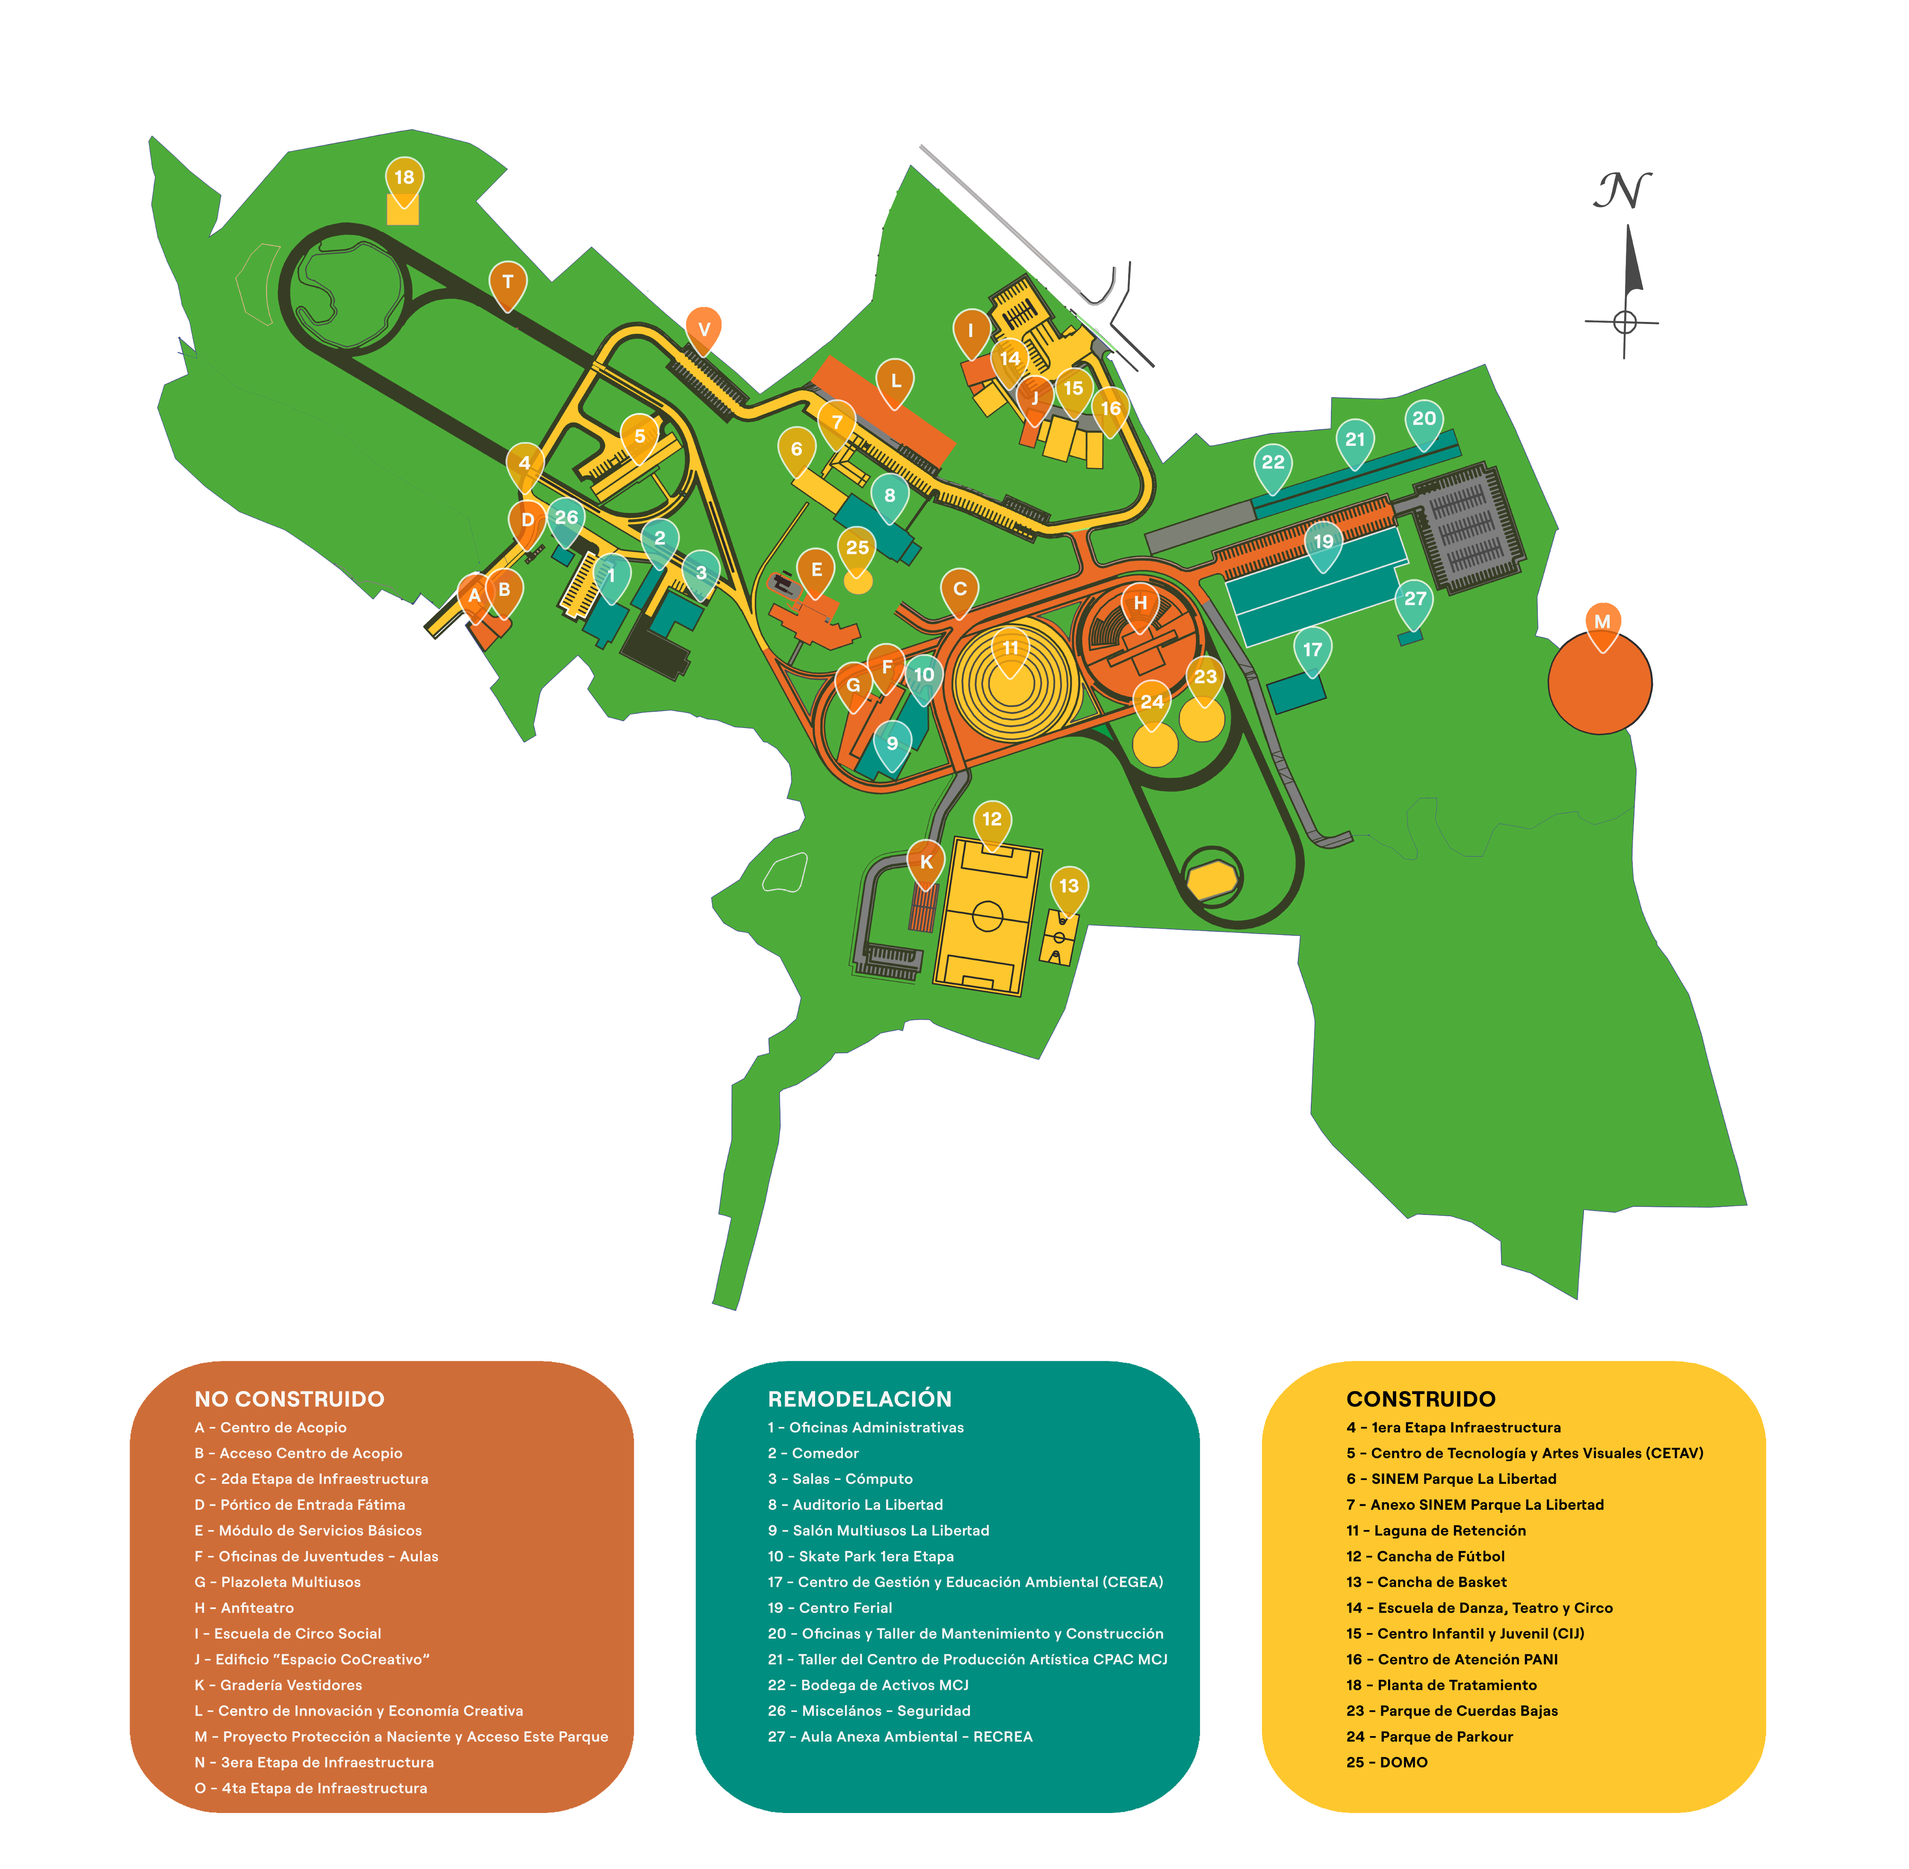
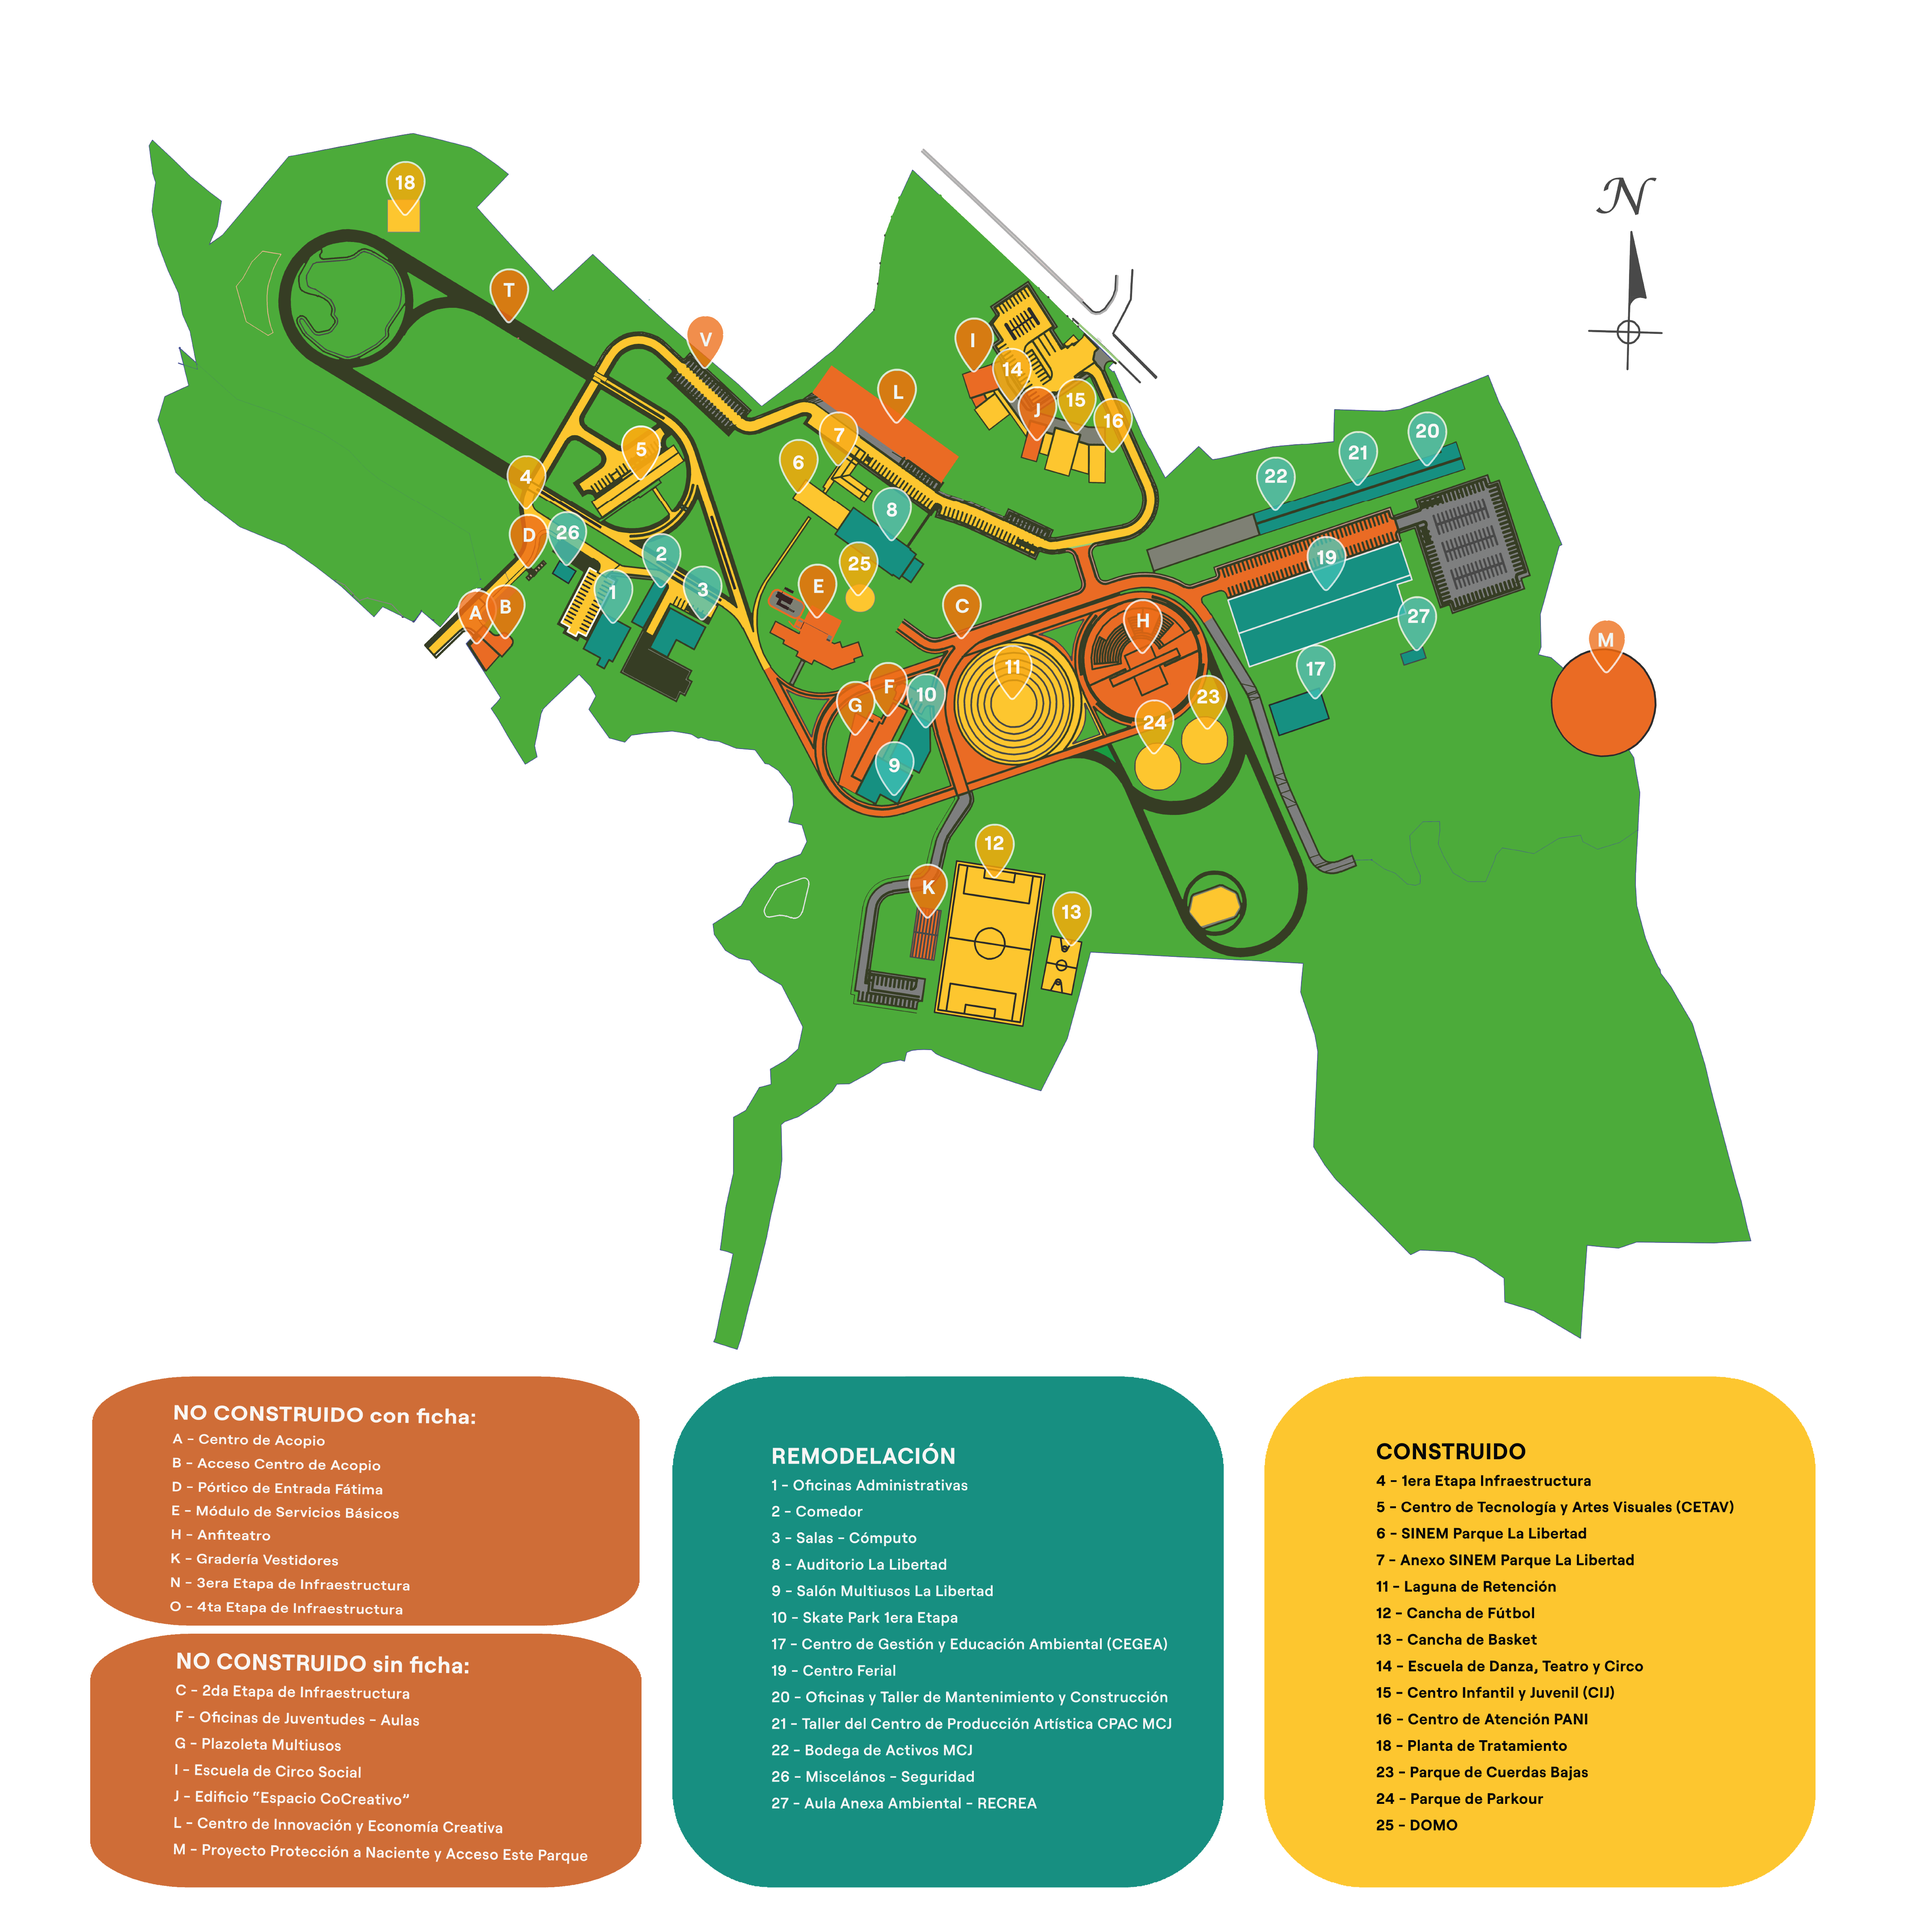
update

diff --git a/src/geo/notbuilt.js b/src/geo/notbuilt.js
@@ -13,15 +13,15 @@ const NOT_BUILT_JSON_ARRAY = [
     estimatedCost: null,
     lastDate: "mar-23",
     cords: {
-      x: 299.4 ,
-      y: 384
+      x: 301 ,
+      y: 381
   },
     renders: "Si",
   },
   {
     id: 1,
     area: 12148,
-    chartId: "B",
+    chartId: "C",
     name: "Infraestructura Etapa 2°",
     description:
       "Conjunto de medios técnicos, servicios e instalaciones que componen la vía pública del Parque, necesarios para tránsito de personas y vehículos en forma segura y confortable de un punto a otro. Incluye: red vial, ciclo vía, sistemas de alcantarillado pluvial, sistema sanitario, sistemas de telecomunicaciones, red eléctrica. Estas obras serán complemento de la infraestructura existente de la 1° Etapa. ",
@@ -33,8 +33,8 @@ const NOT_BUILT_JSON_ARRAY = [
     estimatedCost: 2717391,
     lastDate: "mar-23",
     cords: {
-      x: 317.3 ,
-      y: 382
+      x: 603 ,
+      y: 378
   },
     renders: null,
   },
@@ -52,8 +52,8 @@ const NOT_BUILT_JSON_ARRAY = [
     costM: 224,
     estimatedCost: 2717391,
     cords: {
-      x: 320,
-      y: 189
+      x: 321,
+      y: 181
   },
     renders: null,
   },
@@ -72,8 +72,8 @@ const NOT_BUILT_JSON_ARRAY = [
     estimatedCost: 2150000,
     lastDate: "mar-23",
     cords: {
-      x: 717,
-      y: 392
+      x: 716,
+      y: 387
   },
     renders: null,
   },
@@ -93,7 +93,7 @@ const NOT_BUILT_JSON_ARRAY = [
     lastDate: "mar-23",
     cords: {
       x: 513,
-      y: 370
+      y: 365
   },
     renders: null,
   },
@@ -112,7 +112,7 @@ const NOT_BUILT_JSON_ARRAY = [
     lastDate: "mar-23",
     cords: {
       x: 443,
-      y: 217
+      y: 210
   },
     renders: "No",
   },
@@ -130,8 +130,8 @@ const NOT_BUILT_JSON_ARRAY = [
     estimatedCost: null,
     lastDate: "mar-23",
     cords: {
-      x: 331,
-      y: 340
+      x: 333,
+      y: 334
   },
     renders: "No",
   },
@@ -150,7 +150,7 @@ const NOT_BUILT_JSON_ARRAY = [
     lastDate: "mar-23",
     cords: {
       x: 582.2,
-      y: 553
+      y: 552
   },
     renders: "No",
   },

diff --git a/src/App.css b/src/App.css
@@ -1,24 +1,32 @@
-body {
+body{
   overflow: hidden;
+  margin: 1rem 0.7rem;
 }
-.App {
+.App {  
+  overflow: auto;
   height: 100vh;
-  overflow: scroll;
+  margin-top: 1rem;
+  margin-bottom: 1.6rem;
+}
 
-  width: 100vw;
+.App::-webkit-scrollbar {
+  width: 15px;
 }
-#map,
-#map > image {
-  margin: 0 auto;
+
+.App::-webkit-scrollbar-track {
+  background-color: #f0f0f0;
 }
-#map > image {
-  text-align: center;
+
+.App::-webkit-scrollbar-thumb {
+  background-color: #888;
+  border-radius: 5px;
 }
-circle:hover {
-  fill: green;
-  cursor: pointer;
-  width: 100px;
+
+.App::-webkit-scrollbar-thumb:hover {
+  background-color: #555;
 }
+
+
 #logo {
   left: 0;
   position: absolute;
@@ -26,41 +34,64 @@ circle:hover {
   top: 25px;
   width: 200px;
 }
-.mapSvg {
-  height: 1200px;
-  width: 1300px;
-  display: flex;
-  flex-direction: column;
-  align-items: center;
+
+#map,
+#map > image {
+  margin: 0 auto;
 }
+
+#map > image {
+  text-align: center;
+}
+
+.circle:hover {
+  cursor: pointer;
+  fill: green;
+  width: 100px;
+}
+
+.custom-text-class {
+  user-select: none;
+  font-size: 15.2px;
+  font-weight: 700;
+  user-select: none;
+}
+
 .mapImg {
   height: 1200px;
   width: 1200px;
 }
+
+.mapSvg {
+  align-items: center;
+  display: flex;
+  flex-direction: column;
+  height: 1200px;
+  width: 1300px;
+}
+
 .responsive-dialog {
   margin: 0 auto;
   max-width: 800px;
   width: 90%;
 }
-@media (max-width: 768px) {
-  .responsive-dialog {
-    width: 100%;
-  }
-}
-@media (max-width: 480px) {
-  .responsive-dialog {
-    font-size: 16px;
-  }
-}
+
 @media (max-width: 320px) {
   .responsive-dialog {
     font-size: 14px;
     padding: 5px;
   }
 }
-.custom-text-class {
-  font-size: 15.2px;
-  font-weight: 700;
-  -webkit-user-select: none;
-  user-select: none;
+
+@media (max-width: 480px) {
+  .responsive-dialog {
+    font-size: 16px;
+  }
 }
+
+@media (max-width: 768px) {
+  .responsive-dialog {
+    width: 100%;
+  }
+}
+

diff --git a/src/App.js b/src/App.js
@@ -63,16 +63,22 @@ function App() {
             />
           );
         })}
-        {built.map((item, index) => {
-          return (
-            <Marker
-              color={"yellow"}
-              key={"marker-" + item.id}
-              {...item}
-              className="locked"
-            />
-          );
-        })}
+   {built.map((item, index) => {
+  const handleClick = () => {
+    if (!item.className || item.className !== "locked") {
+      setSelectedItem();
+    }
+  };
+
+  return (
+    <Marker
+      color={"yellow"}
+      key={"marker-" + item.id}
+      {...item}
+      onClick={handleClick}
+    />
+  );
+})}
       </svg>
     </div>
   );

diff --git a/src/geo/built.js b/src/geo/built.js
@@ -1,12 +1,11 @@
 const REMODELATION_JSON_ARRAY_copy = [
   {
     id: 15,
-    chartId: 1,
-    name: "Oficinas Administrativas",
-    
+    chartId: 4,
+    name: "1era Etapa de Infraestructura",    
     cords: {
-      x: 505,
-      y: 372.5
+      x: 332,
+      y: 298
   }
   }
 ];
